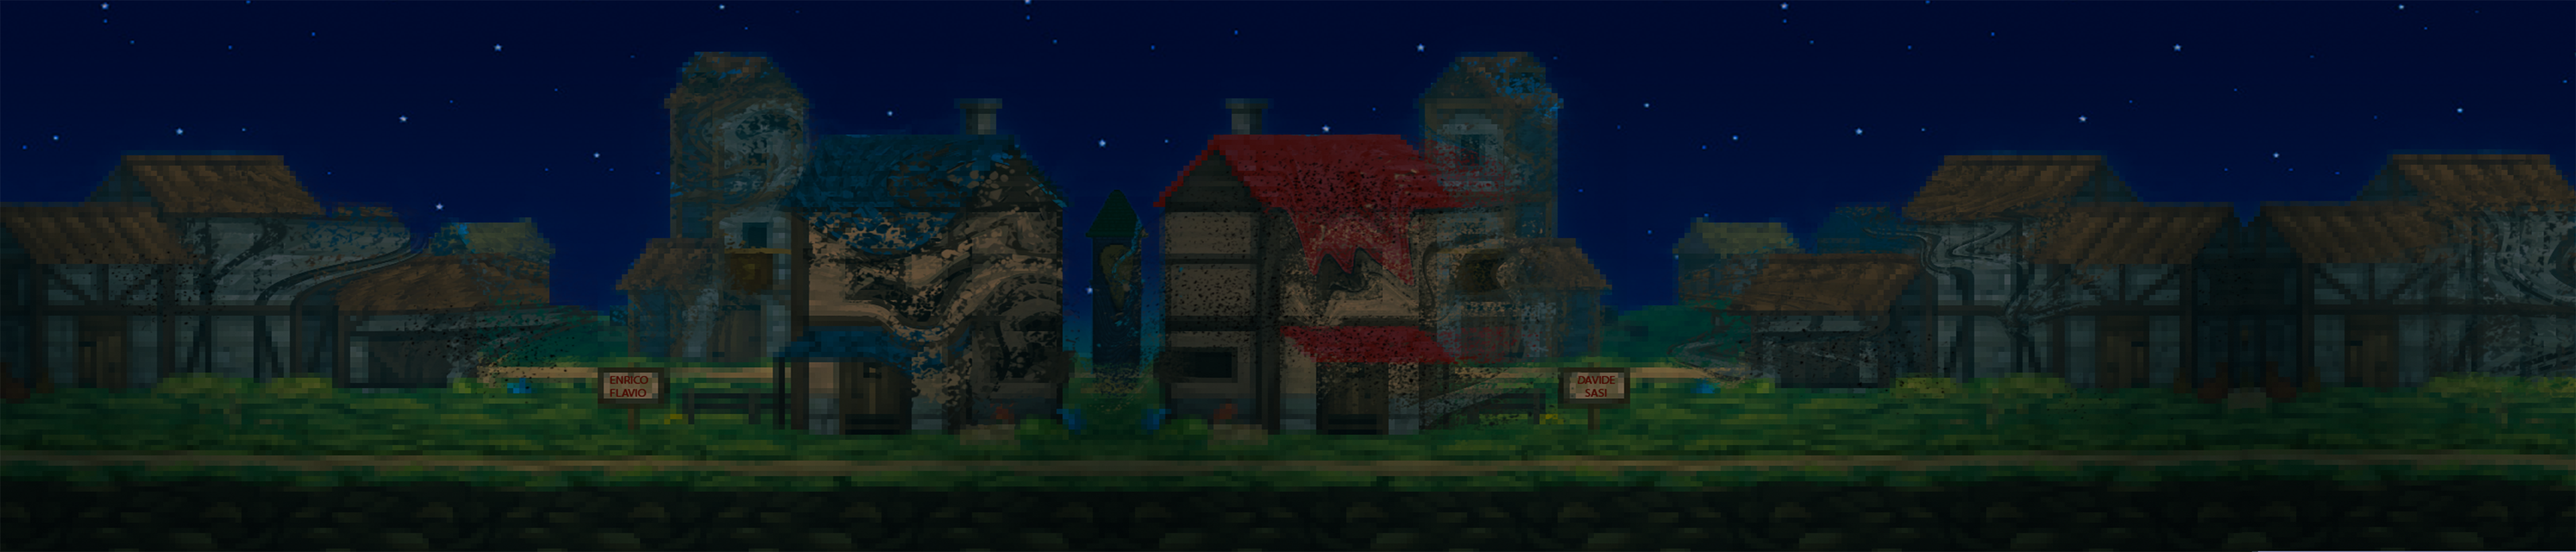
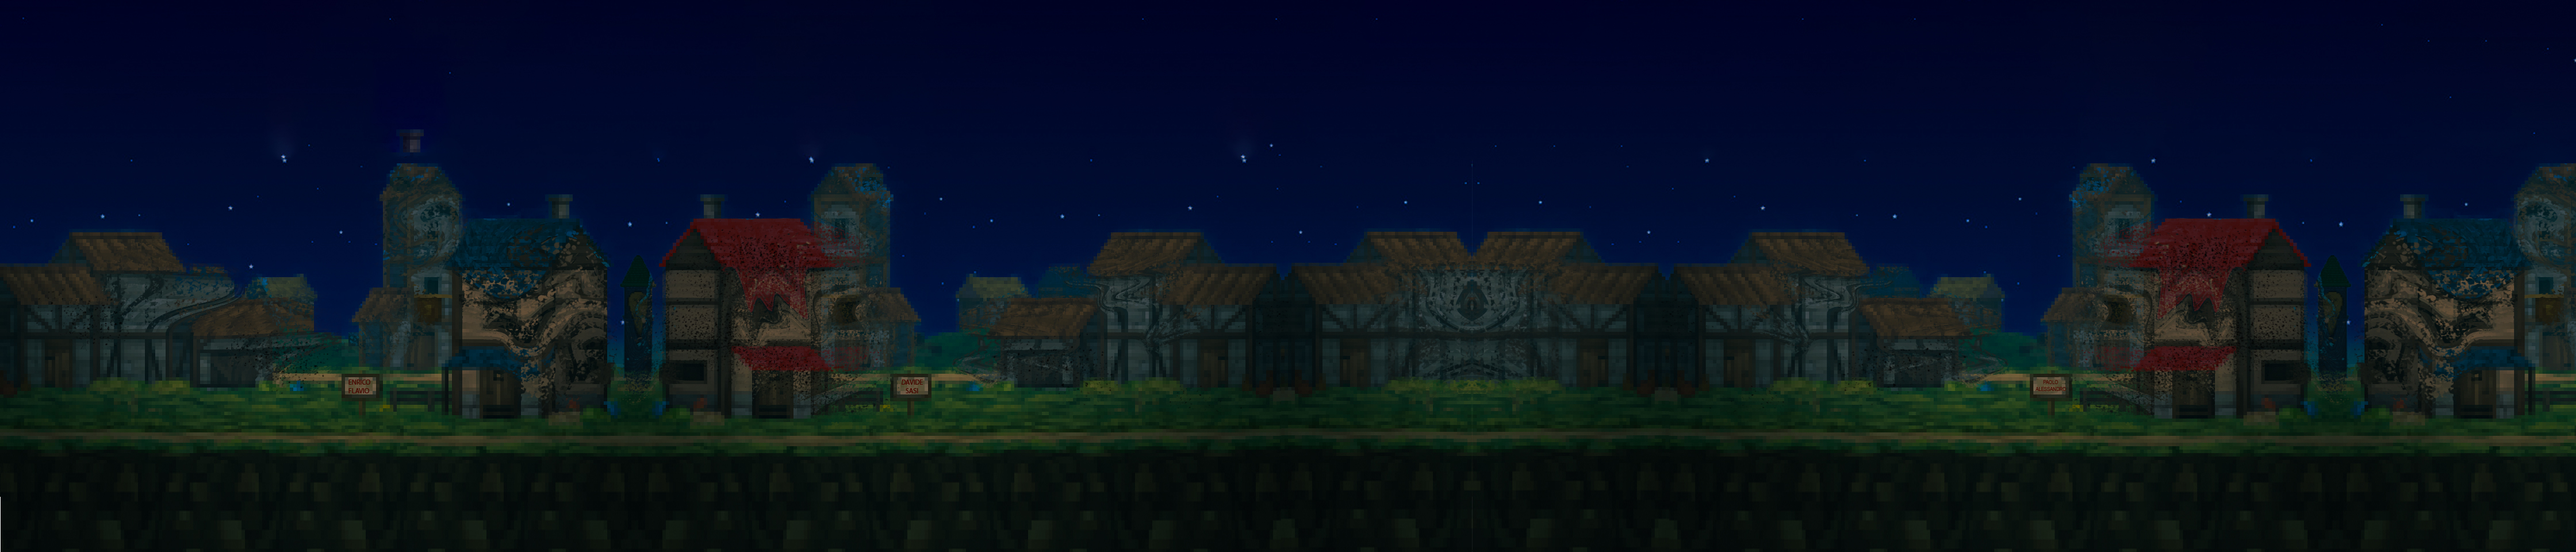
aggiustati sfondi

diff --git a/src/scenes/Level3.ts b/src/scenes/Level3.ts
@@ -41,19 +41,19 @@ export default class Level3 extends Phaser.Scene {
 
     preload() {  
         if(!Level3.completed){
-            Level3.completed=false;
+            Level3.completed=true;
         }    
         PauseHud.setLevel(3);
         this.scene.setVisible(true,"Level3");
-        this.player= new Player({ scene: this, x:55, y: 570, key: "player" });
+        this.player= new Player({ scene: this, x:55, y: 580, key: "player" });
         this.posX=55;
-        this.posY=570;
+        this.posY=580;
         this.lives=3;
         this.saved=false;
         this.physics.add.existing(this.player);
         this.music=this.sound.add("music3",{loop:true,volume:0.3});
         this.music.play();
-        this.bg=this.add.image(0, -255,"bg3").setOrigin(0,0).setDepth(2);
+        this.bg=this.add.image(0, -180,"bg3").setOrigin(0,0).setDepth(2);
         this.grotta=this.add.image(4500, 987,"grotta").setOrigin(1,1).setDepth(4);
         this.map = this.make.tilemap({ key: "level-3"});
         this.keyEsc = this.input.keyboard.addKey(Phaser.Input.Keyboard.KeyCodes.ESC);

diff --git a/src/scenes/Level2.ts b/src/scenes/Level2.ts
@@ -38,7 +38,7 @@ export default class Level2 extends Phaser.Scene {
 
     preload() {      
         if(!Level2.completed){
-            Level2.completed=false;
+            Level2.completed=true;
         }
         PauseHud.setLevel(2);
         this.scene.setVisible(true,"Level2");
@@ -50,7 +50,7 @@ export default class Level2 extends Phaser.Scene {
         this.music=this.sound.add("music2",{loop:true,volume:.3});
         this.music.play();
         this.map = this.make.tilemap({ key: "level-2"});
-        this.bg=this.add.image(0,0,"bg2").setOrigin(0,0).setDepth(2);
+        this.bg=this.add.image(0,100,"bg2").setOrigin(0,0).setDepth(2);
         this.keyEsc = this.input.keyboard.addKey(Phaser.Input.Keyboard.KeyCodes.ESC);
         this.points=0;
         this.mainCam = this.cameras.main;
